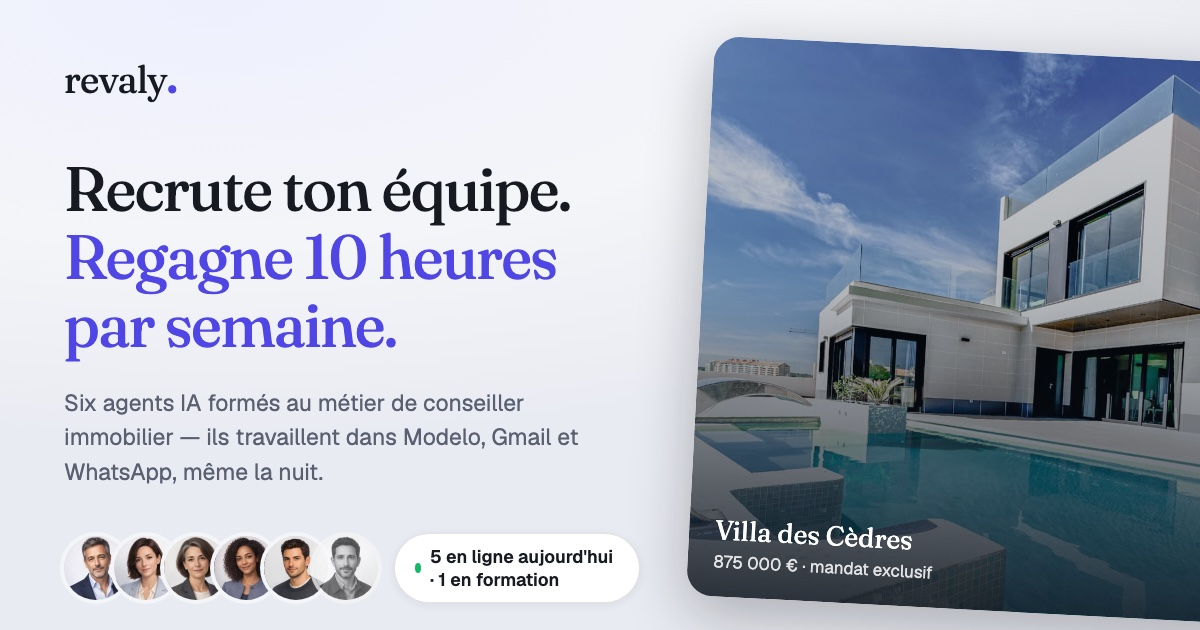
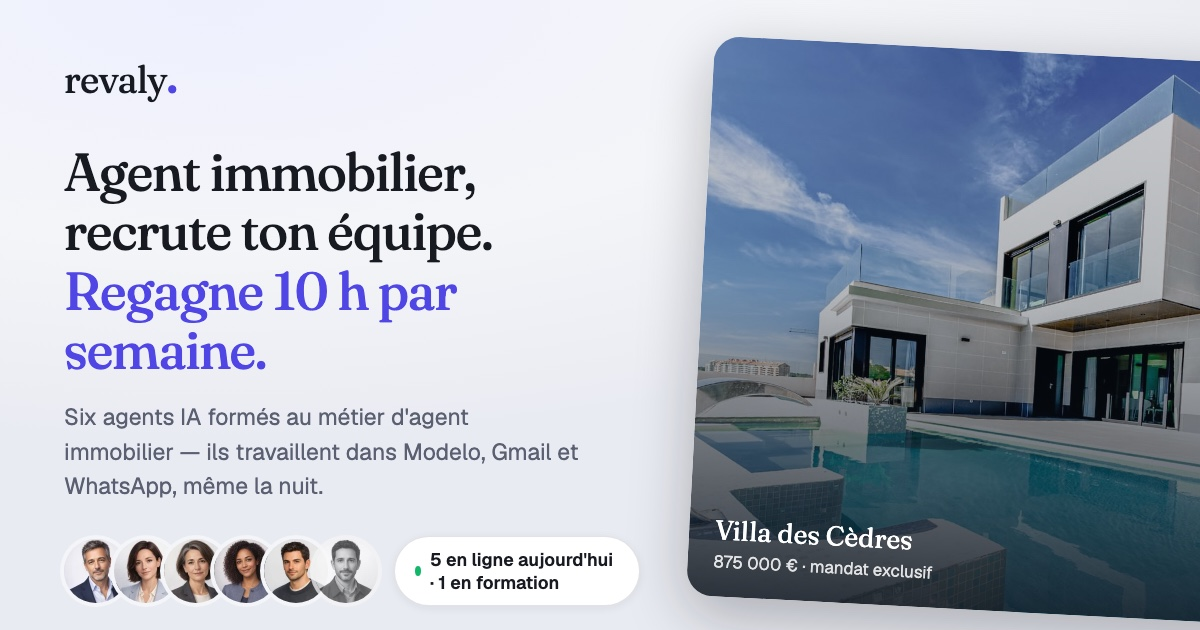
feat: la cible en pleine face — H1 «Agent immobilier, recrute ton équipe», kicker recentré produit (geo: «Ton équipe d'agents IA à {Ville}»), title/description/OG alignés, kicker Modelo masqué ≤520px

diff --git a/template.html b/template.html
@@ -1,6 +1,6 @@
-<title>Revaly — Recrute ton équipe d'agents IA immobilière</title>
+<title>Revaly — L'équipe IA des agents immobiliers</title>
 <meta name="viewport" content="width=device-width, initial-scale=1" />
-<meta name="description" content="Recrute ton équipe d'agents IA spécialisés immobilier — posts Facebook/Instagram, relances, dossiers, mandats — branchée sur Modelo. Rien ne part sans toi. Dès 199 €/mois." />
+<meta name="description" content="Agent immobilier : recrute ton équipe d'agents IA — annonces, posts, relances, dossiers, mandats — branchée sur Modelo. Rien ne part sans toi. Dès 199 €/mois." />
 <link rel="canonical" href="https://revaly.io/" />
 <meta name="theme-color" content="#F4F5F8" media="(prefers-color-scheme: light)" />
 <meta name="theme-color" content="#0B0D12" media="(prefers-color-scheme: dark)" />
@@ -9,13 +9,13 @@
 <meta property="og:site_name" content="Revaly" />
 <meta property="og:locale" content="fr_FR" />
 <meta property="og:url" content="https://revaly.io/" />
-<meta property="og:title" content="Revaly — Recrute ton équipe. Regagne 10 heures par semaine." />
+<meta property="og:title" content="Agent immobilier, recrute ton équipe. Regagne 10 heures par semaine." />
 <meta property="og:description" content="Quatre agents IA formés au métier de conseiller immobilier : posts, relances, dossiers, mandats. Branchés sur Modelo, Gmail et WhatsApp. Rien ne part sans toi." />
 <meta property="og:image" content="https://revaly.io/og.jpg" />
 <meta property="og:image:width" content="1200" />
 <meta property="og:image:height" content="630" />
 <meta name="twitter:card" content="summary_large_image" />
-<meta name="twitter:title" content="Revaly — Recrute ton équipe. Regagne 10 heures par semaine." />
+<meta name="twitter:title" content="Agent immobilier, recrute ton équipe. Regagne 10 heures par semaine." />
 <meta name="twitter:description" content="Quatre agents IA formés au métier de conseiller immobilier. Branchés sur Modelo, Gmail et WhatsApp. Rien ne part sans toi." />
 <meta name="twitter:image" content="https://revaly.io/og.jpg" />
 <link rel="preload" as="font" type="font/woff2" href="fonts/fraunces-var.woff2" crossorigin />
@@ -151,14 +151,15 @@
   /* ── Hero ── */
   .hero { padding-top: 56px; text-align: center; }
   .hero .kicker {
-    display: inline-flex; align-items: center; gap: 8px;
+    display: inline-block;
     font-size: 13px; font-weight: 600; letter-spacing: 0.08em; text-transform: uppercase;
     color: var(--iris);
   }
+  @media (max-width: 520px) { .hero .kicker .kicker-extra { display: none; } }
   .hero h1 {
     font-family: var(--font-display); font-weight: 420;
-    font-size: clamp(34px, 5.4vw, 58px); line-height: 1.08; letter-spacing: -0.025em;
-    margin: 14px auto 0; max-width: 800px;
+    font-size: clamp(31px, 5vw, 54px); line-height: 1.1; letter-spacing: -0.025em;
+    margin: 14px auto 0; max-width: 820px;
   }
   .hero .sub {
     font-size: 18.5px; line-height: 1.65; color: var(--muted);
@@ -886,8 +887,8 @@
 <main id="top">
   <!-- ═══════════════ HERO ═══════════════ -->
   <div class="wrap hero">
-    <p class="kicker h-in"><span id="geo-kicker">L'équipe d'agents IA des conseillers immobiliers</span> · branchée sur Modelo</p>
-    <h1 class="h-in d1">Recrute ton équipe.<br /><span style="color: var(--iris);">Regagne 10 heures par semaine.</span></h1>
+    <p class="kicker h-in"><span id="geo-kicker">Ton équipe d'agents IA</span><span class="kicker-extra"> · branchée sur Modelo / Netty</span></p>
+    <h1 class="h-in d1">Agent immobilier,<br />recrute ton équipe.<br /><span style="color: var(--iris);">Regagne 10 heures par semaine.</span></h1>
     <p class="sub h-in d2">
       Six agents IA formés à ton métier. Ils écrivent, relancent, publient, vérifient
       et mettent tes biens en valeur — dans Modelo, Gmail et WhatsApp, même pendant
@@ -1454,7 +1455,7 @@
     <div class="foot">
       <div>
         <p class="logo" style="margin: 0;">revaly<b>.</b></p>
-        <p class="about">L'équipe d'agents IA des conseillers immobiliers français.</p>
+        <p class="about">L'équipe d'agents IA des agents immobiliers français.</p>
       </div>
       <nav aria-label="Produit">
         <h4>Produit</h4>
@@ -1642,7 +1643,7 @@
       const ville = city.trim().slice(0, 30);
       if (ville.length < 2 || !/^[\p{L} '’-]+$/u.test(ville)) return;
       const k = document.getElementById('geo-kicker');
-      if (k) k.textContent = "L'équipe d'agents IA des conseillers immobiliers de " + ville;
+      if (k) k.textContent = "Ton équipe d'agents IA à " + ville;
       document.querySelectorAll('.geo-city').forEach((el) => { el.textContent = ville; });
     })
     .catch(() => {});

diff --git a/og-src.html b/og-src.html
@@ -15,11 +15,11 @@
   .in { position:relative; z-index:2; padding:56px 0 0 64px; width:640px; }
   .logo { font-family:Fraunces, Georgia, serif; font-size:38px; letter-spacing:-0.02em; }
   .logo b { color:#4F46E5; }
-  h1 { font-family:Fraunces, Georgia, serif; font-weight:450; font-size:62px;
-    line-height:1.1; letter-spacing:-0.02em; margin-top:52px; }
+  h1 { font-family:Fraunces, Georgia, serif; font-weight:450; font-size:53px;
+    line-height:1.12; letter-spacing:-0.02em; margin-top:40px; }
   h1 .iris { color:#4F46E5; }
-  .sub { margin-top:26px; font-size:23px; line-height:1.5; color:#5A6072; max-width:520px; }
-  .team { display:flex; align-items:center; margin-top:44px; gap:16px; }
+  .sub { margin-top:20px; font-size:23px; line-height:1.5; color:#5A6072; max-width:520px; }
+  .team { display:flex; align-items:center; margin-top:32px; gap:16px; }
   .faces { display:flex; }
   .faces img { width:64px; height:64px; border-radius:50%; box-shadow:0 0 0 4px #F4F5F8; }
   .faces img + img { margin-left:-14px; }
@@ -34,8 +34,8 @@
   </div>
   <div class="in">
     <div class="logo">revaly<b>.</b></div>
-    <h1>Recrute ton équipe.<br><span class="iris">Regagne 10 heures par semaine.</span></h1>
-    <div class="sub">Six agents IA formés au métier de conseiller immobilier — ils travaillent dans Modelo, Gmail et WhatsApp, même la nuit.</div>
+    <h1>Agent immobilier,<br>recrute ton équipe.<br><span class="iris">Regagne 10 h par semaine.</span></h1>
+    <div class="sub">Six agents IA formés au métier d'agent immobilier — ils travaillent dans Modelo, Gmail et WhatsApp, même la nuit.</div>
     <div class="team">
       <span class="faces">
         <img src="assets/portraits/[email redacted]"><img src="assets/portraits/[email redacted]"><img src="assets/portraits/[email redacted]"><img src="assets/portraits/[email redacted]"><img src="assets/portraits/[email redacted]"><img src="assets/portraits/[email redacted]" style="filter:grayscale(1);opacity:.75;">